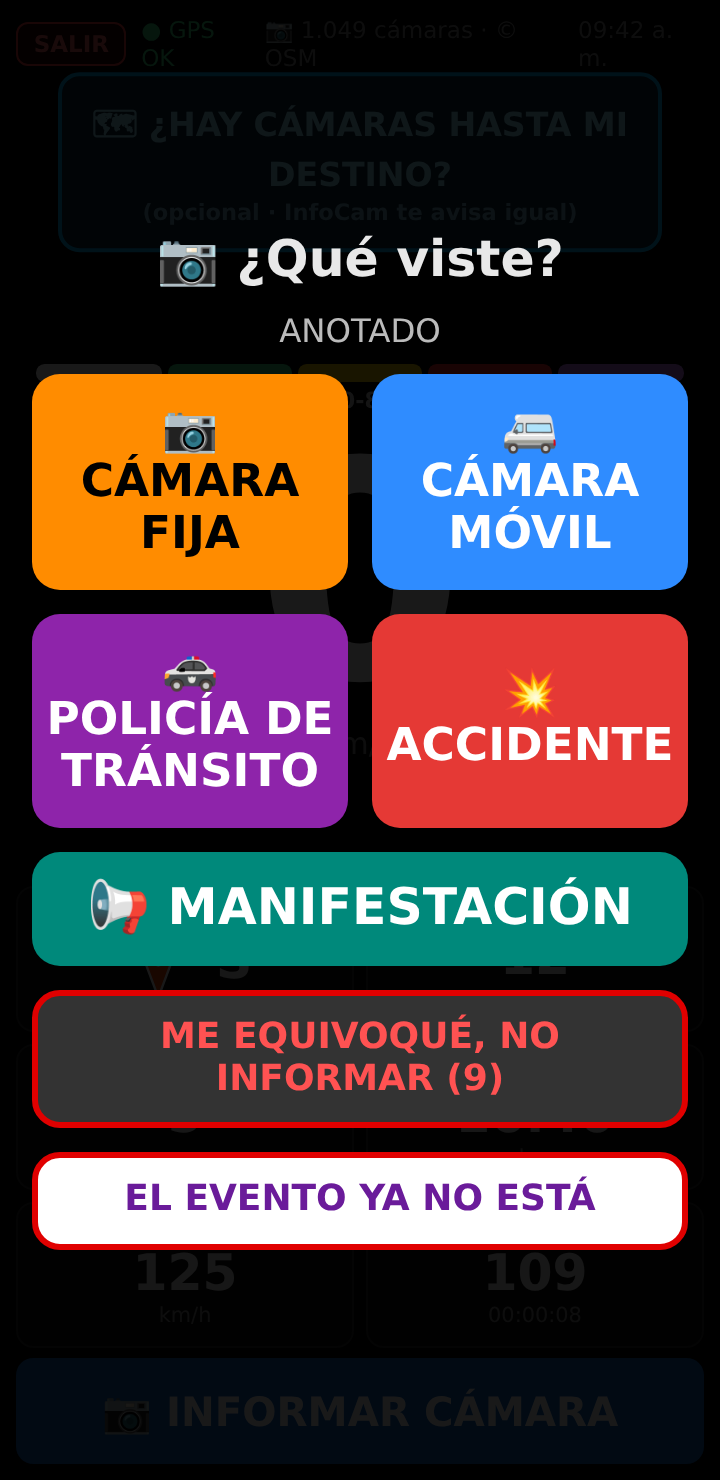
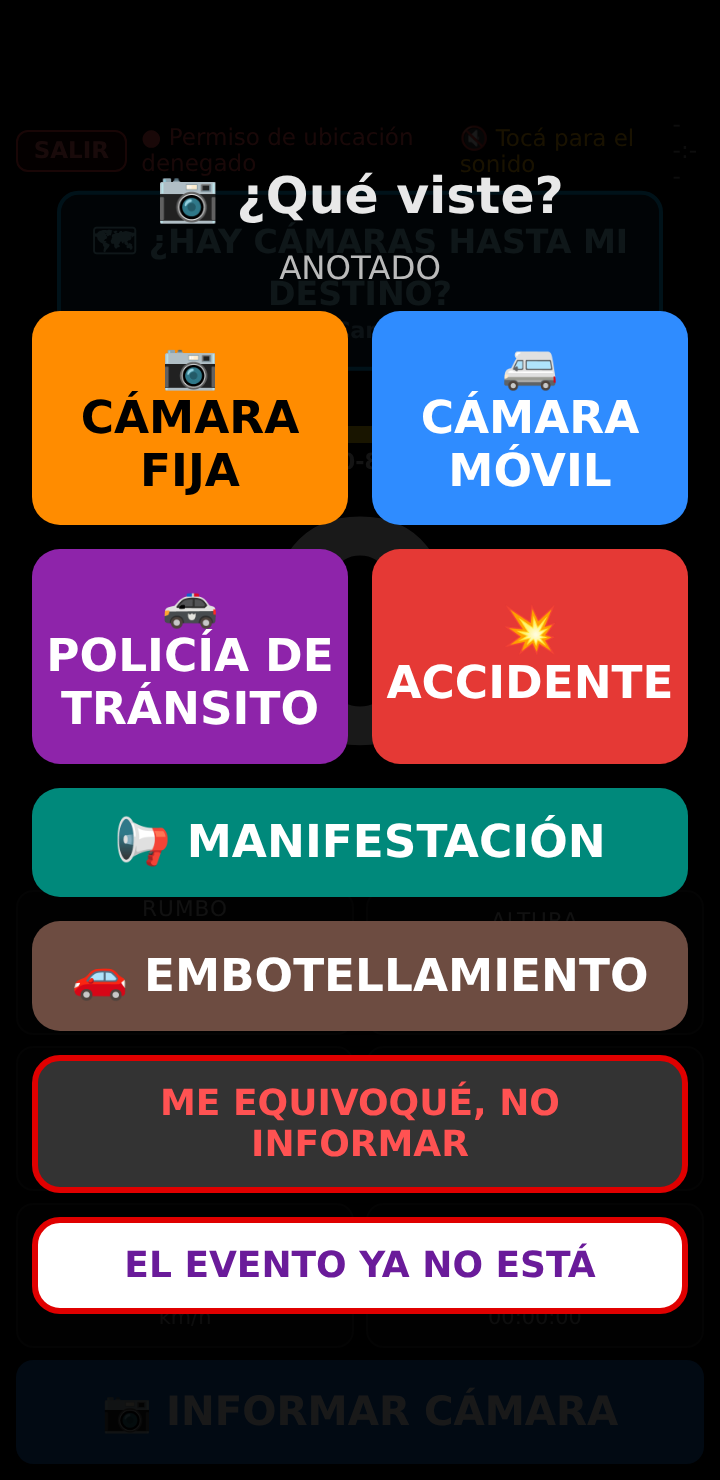
v25: botón EMBOTELLAMIENTO (en vivo, 1 hora) + guía

diff --git a/index.html b/index.html
@@ -111,7 +111,7 @@
   /* v6: botón y ventana para avisar una cámara que el tablero no conocía */
   #btnAviso { flex: 1; background: #1565c0; color: #fff; border: none; }
   .btns #btnAviso { font-size: calc(var(--u) * 5.6); padding: calc(var(--u) * 4) calc(var(--u) * 1); }   /* v21: más grande */
-  /* v21: grilla de 2 columnas: FIJA | MÓVIL, POLICÍA | ACCIDENTE, y abajo a todo el ancho MANIFESTACIÓN, ME EQUIVOQUÉ, YA NO ESTÁ */
+  /* v21: grilla de 2 columnas: FIJA | MÓVIL, POLICÍA | ACCIDENTE, y abajo a todo el ancho MANIFESTACIÓN, EMBOTELLAMIENTO (v25), ME EQUIVOQUÉ, YA NO ESTÁ */
   #aviso { display: none; position: fixed; top: 0; left: 0; right: 0; bottom: 0; z-index: 30; background: rgba(0,0,0,.9);
     grid-template-columns: minmax(0, 1fr) minmax(0, 1fr); align-content: center; gap: 12px; padding: 16px; text-align: center; }
   #aviso.on { display: grid; }
@@ -126,11 +126,13 @@
   #av-policial { background: #8e24aa; color: #fff; }   /* v18 */
   #av-accidente { background: #e53935; color: #fff; }  /* v21 */
   #av-manifestacion { background: #00897b; color: #fff; }   /* v21 */
-  @media (orientation: landscape) {   /* acostado: los 5 tipos en una fila de 3 y otra de 2 (si no, no entran a lo alto) */
+  #av-embotellamiento { background: #6d4c41; color: #fff; }   /* v25: pedido de Ricar */
+  #av-manifestacion, #av-embotellamiento { font-size: 6.3vmin !important; }   /* v25: "EMBOTELLAMIENTO" tiene que entrar en un renglón */
+  @media (orientation: landscape) {   /* acostado: los 6 tipos en dos filas de 3 (v25; si no, no entran a lo alto) */
     #aviso.on { grid-template-columns: repeat(6, 1fr); gap: 2.5vmin; }
-    #av-fija, #av-movil, #av-policial { grid-column: span 2; }
-    #av-accidente, #av-manifestacion.ancho, #av-cancelar.ancho, #av-yanoesta.ancho { grid-column: span 3; }
-    #aviso button, #av-fija, #av-movil, #av-policial, #av-accidente { font-size: 5vmin !important; padding: 3.5vmin 6px !important; }
+    #av-fija, #av-movil, #av-policial, #av-accidente, #av-manifestacion.ancho, #av-embotellamiento.ancho { grid-column: span 2; }
+    #av-cancelar.ancho, #av-yanoesta.ancho { grid-column: span 3; }
+    #aviso button, #av-fija, #av-movil, #av-policial, #av-accidente, #av-manifestacion, #av-embotellamiento { font-size: 5vmin !important; padding: 3.5vmin 6px !important; }
   }
   #av-cancelar { background: #333; color: #ff5252; font-size: 5vmin !important; padding: 3vmin !important; border: 3px solid #e00000 !important; }   /* v18: letras y borde rojos */
   #av-yanoesta { background: #fff; color: #6a1b9a; font-size: 5vmin !important; padding: 3vmin !important; border: 3px solid #e00000 !important; }   /* v18: borde rojo */
@@ -160,8 +162,10 @@
   #pol.on { display: flex; }
   #pol.t-accidente { background: #c62828; }   /* v21 */
   #pol.t-manifestacion { background: #00796b; }   /* v21 */
+  #pol.t-embotellamiento { background: #5d4037; }   /* v25 */
   #pol.t-accidente #pol-no { color: #b71c1c; }
   #pol.t-manifestacion #pol-no { color: #00695c; }
+  #pol.t-embotellamiento #pol-no { color: #4e342e; }
   #pol .ico { font-size: calc(var(--u) * 9); line-height: 1; }
   #pol .txt { flex: 1; min-width: 0; }
   #pol .t1 { font-size: calc(var(--u) * 5); font-weight: 800; line-height: 1.1; }
@@ -246,6 +250,7 @@
     <button id="av-policial">🚓<br>POLICÍA DE TRÁNSITO</button>
     <button id="av-accidente">💥<br>ACCIDENTE</button>
     <button id="av-manifestacion" class="ancho">📢 MANIFESTACIÓN</button>
+    <button id="av-embotellamiento" class="ancho">🚗 EMBOTELLAMIENTO</button>
     <button id="av-cancelar" class="ancho">ME EQUIVOQUÉ, NO INFORMAR</button>
     <button id="av-yanoesta" class="ancho">EL EVENTO YA NO ESTÁ</button>
   </div>
@@ -495,7 +500,7 @@ function avisoCerrar(tipo) {
     avisoPend.tipo = tipo;
     const c = colaLeer(); c.push(avisoPend); colaGuardar(c);
     decir({ policial: "Gracias, policía de tránsito avisada", movil: "Gracias, cámara móvil anotada", accidente: "Gracias, accidente avisado",
-      manifestacion: "Gracias, manifestación avisada", "?": "Informado" }[tipo] || "Gracias, cámara anotada");   // v21: + accidente y manifestación   // v18 · v19: se acabó el tiempo = "Informado"
+      manifestacion: "Gracias, manifestación avisada", embotellamiento: "Gracias, embotellamiento avisado", "?": "Informado" }[tipo] || "Gracias, cámara anotada");   // v21: + accidente y manifestación   // v18 · v19: se acabó el tiempo = "Informado"
     avisoMandar();
   }
   avisoPend = null;
@@ -505,6 +510,7 @@ $("av-movil").onclick = () => avisoCerrar("movil");
 $("av-policial").onclick = () => avisoCerrar("policial");   // v18: se muestra a los demás conductores durante 1 hora
 $("av-accidente").onclick = () => avisoCerrar("accidente");   // v21: también en vivo, 1 hora
 $("av-manifestacion").onclick = () => avisoCerrar("manifestacion");   // v21: también en vivo, 1 hora
+$("av-embotellamiento").onclick = () => avisoCerrar("embotellamiento");   // v25: también en vivo, 1 hora
 // v18: EL CONTROL YA NO ESTÁ (desde la ventana): borra el control avisado más cercano, a menos de 1 km. No se manda ningún aviso.
 $("av-yanoesta").onclick = function () {
   const a = avisoPend;
@@ -643,6 +649,7 @@ const EN_VIVO = {
   policial:      { ico: "🚓", nom: "POLICÍA DE TRÁNSITO", voz: "Policía de tránsito", seguia: "¿SEGUÍA EL CONTROL?", seguiaVoz: "¿Seguía el control?" },
   accidente:     { ico: "💥", nom: "ACCIDENTE", voz: "Accidente", seguia: "¿SEGUÍA EL ACCIDENTE?", seguiaVoz: "¿Seguía el accidente?" },
   manifestacion: { ico: "📢", nom: "MANIFESTACIÓN", voz: "Manifestación", seguia: "¿SEGUÍA LA MANIFESTACIÓN?", seguiaVoz: "¿Seguía la manifestación?" },
+  embotellamiento: { ico: "🚗", nom: "EMBOTELLAMIENTO", voz: "Embotellamiento", seguia: "¿SEGUÍA EL EMBOTELLAMIENTO?", seguiaVoz: "¿Seguía el embotellamiento?" },   // v25
 };
 const POL_SEG = 3600;          // se muestra 1 hora (igual que en el servidor)
 const POL_CADA_MS = 60000;     // cada cuánto se preguntan los controles
@@ -959,7 +966,7 @@ if ("serviceWorker" in navigator) navigator.serviceWorker.register("sw.js").catc
 // Al abrir (y cada 30 min, y al volver a la pantalla) se fija en internet la VERSION de sw.js publicada; si es distinta
 // de la de esta página, con el auto PARADO aparece la franja verde. Un toque recarga la página nueva (sin desinstalar).
 // Sin señal no pregunta nada. OJO: APP_VERSION tiene que ser IGUAL a VERSION de sw.js en cada publicación.
-const APP_VERSION = "infocam-v24-1";
+const APP_VERSION = "infocam-v25-1";
 let actHay = false, actParado = true;
 function actPintar() {
   const on = actHay && actParado, b = document.body.classList;

diff --git a/ayuda/index.html b/ayuda/index.html
@@ -34,7 +34,7 @@
   .am { background: #ffb300; color: #000; } .ro { background: #ff1a1a; color: #fff; } .az { background: #1565c0; color: #fff; }
   .ve { background: #1a9e45; color: #fff; } .na { background: #f08a00; color: #000; } .gr { background: #333; color: #ddd; }
   .nm { background: #ff8c00; color: #000; } .mo { background: #2f8cff; color: #fff; } .po { background: #8e24aa; color: #fff; } .bl { background: #fff; color: #6a1b9a; }
-  .ac { background: #e53935; color: #fff; } .ma { background: #00897b; color: #fff; } .de { background: #0b2a3d; color: #9be7ff; border: 1px solid #00b7ff; }   /* v24 */
+  .ac { background: #e53935; color: #fff; } .ma { background: #00897b; color: #fff; } .em { background: #6d4c41; color: #fff; }   /* v25 */ .de { background: #0b2a3d; color: #9be7ff; border: 1px solid #00b7ff; }   /* v24 */
   .ojo { background: #1c1608; border: 1px solid #5a4500; border-radius: 12px; padding: 12px 14px; margin: 12px 0; }
   .colores { display: grid; grid-template-columns: repeat(5, 1fr); gap: 6px; margin: 12px 0; }
   .colores > div { background: #000; border: 1px solid #333; border-radius: 10px; text-align: center; padding: 8px 2px; }
@@ -128,7 +128,7 @@ y te dice la velocidad máxima. Se abre como una página y usa el GPS del celula
 
 <h2><span class="n">5</span>¿Viste una cámara, un control o un accidente? Informalo</h2>
 <div class="con-foto">
-  <img src="cap_ventana.png" alt="Ventana ¿Qué viste?: cámara fija, cámara móvil, policía de tránsito, accidente, manifestación, me equivoqué, el evento ya no está">
+  <img src="cap_ventana.png" alt="Ventana ¿Qué viste?: cámara fija, cámara móvil, policía de tránsito, accidente, manifestación, embotellamiento, me equivoqué, el evento ya no está">
   <div>
     <ol>
       <li>Tocá el botón azul de abajo <span class="chip az">📷 INFORMAR CÁMARA</span>. En ese momento ya queda anotado el lugar.</li>
@@ -139,8 +139,9 @@ y te dice la velocidad máxima. Se abre como una página y usa el GPS del celula
           <li><span class="chip po">POLICÍA DE TRÁNSITO</span>: piden documentos o hacen el test de alcoholemia.</li>
           <li><span class="chip ac">ACCIDENTE</span>: un choque o un vehículo accidentado en la ruta.</li>
           <li><span class="chip ma">MANIFESTACIÓN</span>: un corte o una manifestación en el camino.</li>
+          <li><span class="chip em">EMBOTELLAMIENTO</span>: tránsito trabado, autos parados o muy lentos.</li>
           <li><span class="chip gr">ME EQUIVOQUÉ, NO INFORMAR</span>: no se manda nada.</li>
-          <li><span class="chip bl">EL EVENTO YA NO ESTÁ</span>: borra para todos la policía, el accidente o la manifestación avisados más
+          <li><span class="chip bl">EL EVENTO YA NO ESTÁ</span>: borra para todos la policía, el accidente, la manifestación o el embotellamiento avisados más
             cerca (a menos de 1 km).</li>
         </ul>
       </li>
@@ -155,9 +156,9 @@ y te dice la velocidad máxima. Se abre como una página y usa el GPS del celula
 <div class="con-foto">
   <img src="cap_accidente.png" alt="Cartel rojo: accidente a 900 m, avisado hace 3 minutos, con el botón YA NO ESTÁ">
   <div>
-    <p><b>Policía de tránsito, accidentes y manifestaciones les aparecen enseguida a los que vienen para ese lado</b>, durante una hora,
+    <p><b>Policía de tránsito, accidentes, manifestaciones y embotellamientos les aparecen enseguida a los que vienen para ese lado</b>, durante una hora,
       con un cartel y la voz: <span class="chip po">violeta</span> la policía, <span class="chip ac">rojo</span> los accidentes y
-      <span class="chip ma">verde</span> las manifestaciones. Así, entre todos, nos avisamos.</p>
+      <span class="chip ma">verde</span> las manifestaciones y <span class="chip em">marrón</span> los embotellamientos. Así, entre todos, nos avisamos.</p>
     <p>Cuando lo pasás, pregunta <i>"¿Seguía?"</i>. Si ya no estaba, tocá <b>YA NO ESTÁ</b> en el cartel y se borra para todos.</p>
     <p>Para ver los avisos de los demás hace falta internet.</p>
   </div>

diff --git a/sw.js b/sw.js
@@ -2,7 +2,7 @@
 // Siempre intenta traer lo nuevo de internet; si no hay señal, usa lo guardado.
 // Al cambiar archivos, subir VERSION. OJO v17: también APP_VERSION en index.html (tienen que ser IGUALES:
 // la app compara su APP_VERSION con la VERSION de este archivo publicado para avisar "HAY UNA VERSIÓN NUEVA").
-const VERSION = "infocam-v24-1";
+const VERSION = "infocam-v25-1";
 const BASICOS = ["./", "camaras.js", "estadistica.js", "manifest.webmanifest", "icono-192.png", "icono-512.png", "apple-touch-icon.png"];
 
 self.addEventListener("install", function (e) {
